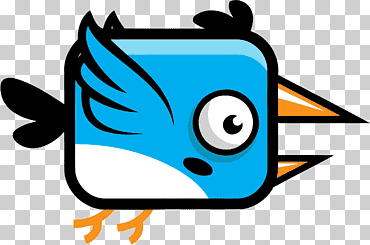
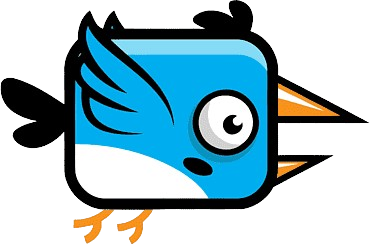
hero size modified

diff --git a/flappy.py b/flappy.py
@@ -6,6 +6,10 @@ height=946
 screen=pygame.display.set_mode((width,height))
 bg=pygame.image.load("back_g.png")
 screen.blit(bg,(0,0))
+hero=pygame.image.load("bird.png")
+hero1=pygame.transform.scale(hero,(80,60))
+screen.blit(hero1,(25,450))
+
 pygame.display.update()
 
 time.sleep(5)
